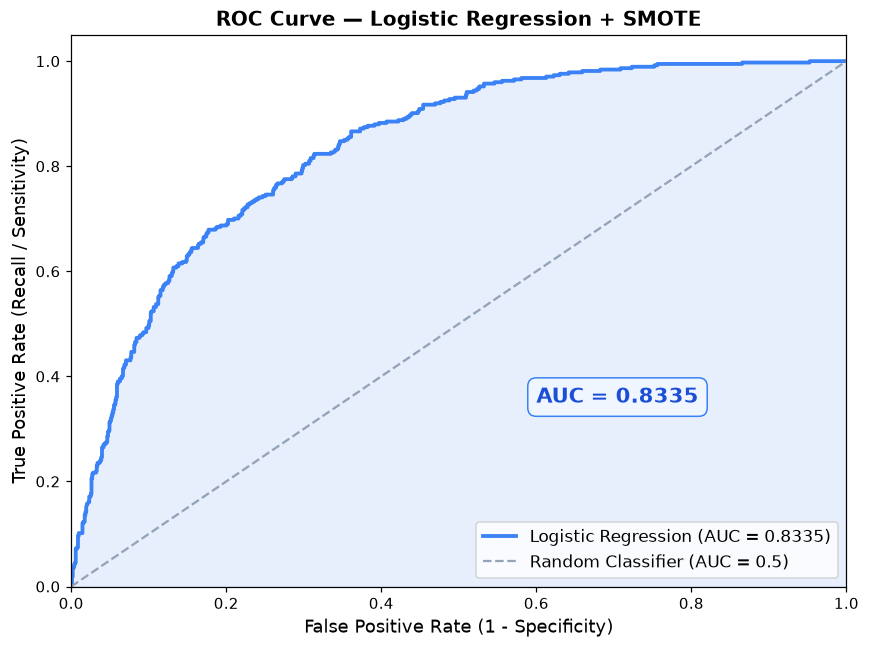
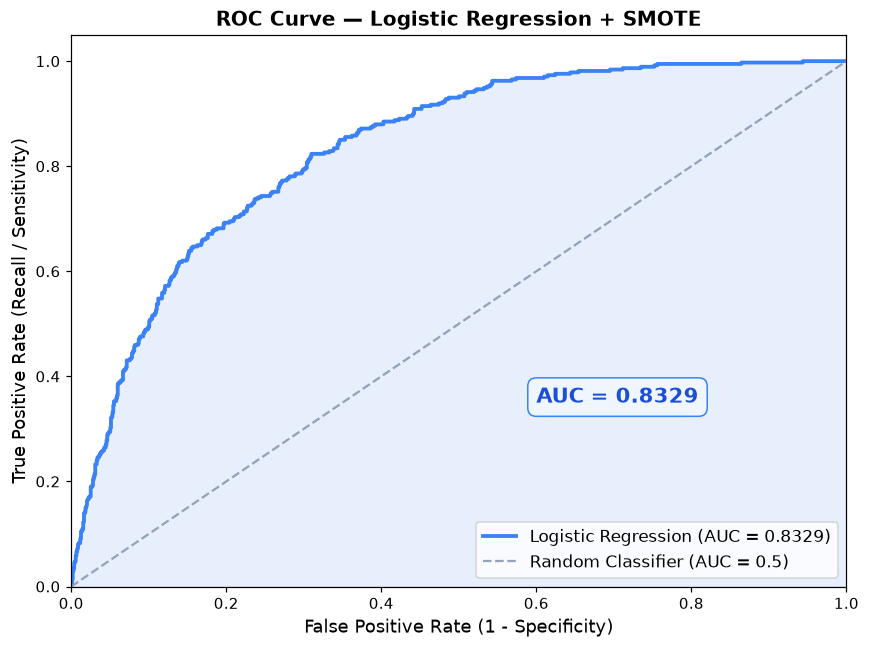
fix: synchronize metrics to C=10 tuning, add risk threshold documentation, and add UTF-8 stdout fixes

diff --git a/templates/index.html b/templates/index.html
@@ -359,6 +359,11 @@
         <strong>🚨 Rekomendasi:</strong> Risiko churn SANGAT TINGGI. Segera lakukan intervensi — tawarkan paket khusus, perpanjang kontrak dengan insentif, atau eskalasi ke tim retensi.
       {% endif %}
     </div>
+
+    <!-- Catatan Ambang Batas Risiko Manajerial -->
+    <div style="margin-top: .9rem; font-size: .76rem; color: var(--text-muted); text-align: center; line-height: 1.45;">
+      ℹ <em>Kategori risiko (&lt;40% Rendah, 40–70% Sedang, &ge;70% Tinggi) adalah aturan segmentasi manajerial/bisnis untuk strategi retensi proaktif, sedangkan ambang batas standar model klasifikasi biner adalah 50%.</em>
+    </div>
   </div>
 </div>
 {% endif %}

diff --git a/app.py b/app.py
@@ -17,13 +17,14 @@ MODEL_PATH = os.path.join(BASE_DIR, "models", "model_churn.pkl")
 app   = Flask(__name__)
 model = joblib.load(MODEL_PATH)
 
-# Statistik model untuk ditampilkan di UI
+# Statistik model final (hasil tuning C=10 dengan Stratified 5-Fold CV)
 MODEL_STATS = {
-    "accuracy" : 73.13,
-    "recall"   : 77.54,
-    "auc"      : 83.34,
-    "f1"       : 60.54,
-    "algorithm": "Logistic Regression + SMOTE",
+    "accuracy" : 73.28,
+    "recall"   : 78.07,
+    "auc"      : 83.29,
+    "f1"       : 60.83,
+    "cv_auc"   : 84.55,
+    "algorithm": "Logistic Regression (C=10) + SMOTE",
     "dataset"  : "Telco Customer Churn (7,032 records)",
 }
 
@@ -33,10 +34,10 @@ MODEL_STATS = {
 
 @app.route("/", methods=["GET", "POST"])
 def index():
-    hasil       = None
+    hasil        = None
     probabilitas = None
-    risk_level  = None
-    form_data   = {}
+    risk_level   = None
+    form_data    = {}
 
     if request.method == "POST":
         form_data = request.form.to_dict()
@@ -64,9 +65,17 @@ def index():
         }
 
         X_input      = pd.DataFrame([data])
-        prediksi     = model.predict(X_input)[0]
         probabilitas = round(model.predict_proba(X_input)[0][1] * 100, 2)
 
+        # ── Aturan Segmentasi Risiko Bisnis ─────────────────────────
+        # Catatan: Standar decision boundary biner Logistic Regression
+        # adalah 50% (probabilitas >= 50% -> churn).
+        # Namun untuk strategi mitigasi retensi pelanggan proaktif,
+        # aplikasi membagi probabilitas menjadi 3 tier risiko bisnis:
+        #   - < 40%      : Risiko Rendah  (pelanggan relatif loyal)
+        #   - 40% - 70%  : Risiko Sedang  (perlu perhatian & diskon/upgrade)
+        #   - >= 70%     : Risiko Tinggi  (intervensi retensi agresif segera)
+        # ────────────────────────────────────────────────────────────
         if probabilitas >= 70:
             risk_level = "high"
             hasil      = "Berisiko Tinggi Churn"

diff --git a/src/04_simpan_model.py b/src/04_simpan_model.py
@@ -11,15 +11,20 @@ Script ini melakukan:
 =============================================================
 """
 
+import sys
 import os
 import warnings
 import pandas as pd
 import joblib
 
+if hasattr(sys.stdout, "reconfigure"):
+    sys.stdout.reconfigure(encoding="utf-8", errors="replace")
+
 from sklearn.model_selection import train_test_split
 from sklearn.compose import ColumnTransformer
 from sklearn.preprocessing import OneHotEncoder, StandardScaler
 from sklearn.linear_model import LogisticRegression
+from sklearn.metrics import accuracy_score, recall_score, f1_score, roc_auc_score
 from imblearn.pipeline import Pipeline
 from imblearn.over_sampling import SMOTE
 
@@ -68,15 +73,27 @@ preprocessor = ColumnTransformer([
     ("cat", OneHotEncoder(handle_unknown="ignore"), categorical_features)
 ])
 
+# Model menggunakan parameter optimal C=10 hasil tuning GridSearchCV (05_validasi_model.py)
 model = Pipeline([
     ("preprocessor", preprocessor),
     ("smote",        SMOTE(random_state=42)),
-    ("classifier",   LogisticRegression(max_iter=2000, random_state=42))
+    ("classifier",   LogisticRegression(C=10, max_iter=2000, random_state=42))
 ])
 
-print("\n▸ Melatih model final ...")
+print("\n▸ Melatih model final (C=10, SMOTE) ...")
 model.fit(X_train, y_train)
 print("✔  Pelatihan selesai!")
+
+# Evaluasi pada data uji untuk memastikan konsistensi
+y_pred = model.predict(X_test)
+y_prob = model.predict_proba(X_test)[:, 1]
+print("\n" + "=" * 55)
+print("  EVALUASI MODEL PADA DATA UJI (C=10)")
+print("=" * 55)
+print(f"  Akurasi  : {accuracy_score(y_test, y_pred) * 100:.2f}%")
+print(f"  Recall   : {recall_score(y_test, y_pred) * 100:.2f}%")
+print(f"  F1-Score : {f1_score(y_test, y_pred) * 100:.2f}%")
+print(f"  ROC-AUC  : {roc_auc_score(y_test, y_prob) * 100:.2f}%")
 
 # ══════════════════════════════════════════════════════════
 #  4. SIMPAN MODEL DAN METADATA

diff --git a/src/03_pelatihan_model.py b/src/03_pelatihan_model.py
@@ -12,12 +12,16 @@ Script ini melakukan:
 =============================================================
 """
 
+import sys
 import os
 import warnings
 import pandas as pd
 import numpy as np
 import matplotlib.pyplot as plt
 import seaborn as sns
+
+if hasattr(sys.stdout, "reconfigure"):
+    sys.stdout.reconfigure(encoding="utf-8", errors="replace")
 
 from sklearn.model_selection import train_test_split
 from sklearn.compose import ColumnTransformer
@@ -80,7 +84,7 @@ preprocessor = ColumnTransformer([
 model = Pipeline([
     ("preprocessor", preprocessor),
     ("smote",        SMOTE(random_state=42)),
-    ("classifier",   LogisticRegression(max_iter=2000, random_state=42))
+    ("classifier",   LogisticRegression(C=10, max_iter=2000, random_state=42))
 ])
 
 print("\n▸ Melatih model (LogisticRegression + SMOTE) ...")

diff --git a/src/02_preprocessing.py b/src/02_preprocessing.py
@@ -11,10 +11,15 @@ Script ini melakukan:
 =============================================================
 """
 
+import sys
 import os
 import warnings
 import pandas as pd
 import matplotlib.pyplot as plt
+
+if hasattr(sys.stdout, "reconfigure"):
+    sys.stdout.reconfigure(encoding="utf-8", errors="replace")
+
 from sklearn.model_selection import train_test_split
 from sklearn.compose import ColumnTransformer
 from sklearn.preprocessing import OneHotEncoder, StandardScaler

diff --git a/src/05_validasi_model.py b/src/05_validasi_model.py
@@ -12,11 +12,15 @@ Script ini melakukan:
 =============================================================
 """
 
+import sys
 import os
 import warnings
 import pandas as pd
 import matplotlib.pyplot as plt
 import joblib
+
+if hasattr(sys.stdout, "reconfigure"):
+    sys.stdout.reconfigure(encoding="utf-8", errors="replace")
 
 from sklearn.model_selection import (
     train_test_split, GridSearchCV, StratifiedKFold

diff --git a/src/01_eksplorasi_data.py b/src/01_eksplorasi_data.py
@@ -11,12 +11,16 @@ Script ini melakukan:
 =============================================================
 """
 
+import sys
 import os
 import warnings
 import pandas as pd
 import matplotlib.pyplot as plt
 import matplotlib.patches as mpatches
 import seaborn as sns
+
+if hasattr(sys.stdout, "reconfigure"):
+    sys.stdout.reconfigure(encoding="utf-8", errors="replace")
 
 warnings.filterwarnings("ignore")
 

diff --git a/README.md b/README.md
@@ -31,19 +31,34 @@ Proyek ini membangun sistem prediksi churn pelanggan telekomunikasi berbasis kla
 
 ## 🤖 Model & Hasil Evaluasi
 
-Model dibangun menggunakan pipeline terintegrasi: **One-Hot Encoding** + **StandardScaler** + penanganan class imbalance dengan **SMOTE** + **Logistic Regression**.
+Model dibangun menggunakan pipeline terintegrasi: **One-Hot Encoding** + **StandardScaler** + penanganan class imbalance dengan **SMOTE** + **Logistic Regression (C=10)**.
 
 | Metrik Evaluasi | Nilai (Data Uji) | Keterangan |
 |-----------------|------------------|------------|
-| **Akurasi Data Uji** | **73.21%** | Performa klasifikasi keseluruhan |
-| **Recall (Churn)** | **77.81%** | ⭐ **Metrik paling kritis** (minimalkan False Negative) |
-| **Precision (Churn)**| **49.74%** | Proporsi prediksi churn yang tepat |
-| **F1-Score (Churn)** | **60.69%** | Keseimbangan precision & recall |
-| **ROC-AUC** | **83.35%** | Kemampuan diskriminasi model sangat baik (> 0.8) |
+| **Akurasi Data Uji** | **73.28%** | Performa klasifikasi keseluruhan pada data uji (1.407 sampel) |
+| **Recall (Churn)** | **78.07%** | ⭐ **Metrik paling kritis** (berhasil mendeteksi 292 dari 374 pelanggan churn) |
+| **Precision (Churn)**| **49.83%** | Proporsi prediksi churn yang tepat |
+| **F1-Score (Churn)** | **60.83%** | Harmonic mean precision & recall |
+| **ROC-AUC** | **83.29%** | Kemampuan diskriminasi model sangat baik (> 0.8) |
 | **Validation AUC (5-Fold)** | **84.55%** | Skor rata-rata Stratified K-Fold CV (C optimal = 10) |
 
 > 💡 **Alasan Prioritas Recall:**  
-> Pada domain retensi pelanggan, **False Negative (FN)** — pelanggan yang sebenarnya akan churn namun diprediksi aman — jauh lebih merugikan secara finansial dibanding **False Positive (FP)** (mengeluarkan biaya retensi/promo untuk pelanggan yang sebenarnya loyal).
+> Pada domain retensi pelanggan telekomunikasi, **False Negative (FN)** — pelanggan yang sebenarnya akan berhenti berlangganan tetapi terlewat dan diprediksi aman — merupakan kerugian terbesar karena perusahaan kehilangan pendapatan jangka panjang (*loss of customer lifetime value*). Sebaliknya, **False Positive (FP)** hanya menimbulkan biaya retensi kecil (misal: pemberian voucher diskon kepada pelanggan yang sebenarnya loyal).
+
+---
+
+### ⚖ Aturan Segmentasi Risiko Bisnis vs Ambang Batas Klasifikasi Biner
+
+Penting untuk dicatat bahwa model **Logistic Regression** secara standar matematis menggunakan ambang batas klasifikasi biner **50% (0.5)**:
+- Probabilitas $\ge 50\%$ diklasifikasikan sebagai **Churn (1)**.
+- Probabilitas $< 50\%$ diklasifikasikan sebagai **Tidak Churn (0)**.
+
+Namun, untuk kebutuhan operasional manajemen bisnis di dunia nyata, aplikasi ini menerapkan **aturan segmentasi risiko manajerial (*business decision threshold*)**:
+1. **Risiko Rendah ($< 40\%$)**: Pelanggan aman dan loyal. Diberikan program apresiasi standar.
+2. **Risiko Sedang ($40\% - 70\%$)**: Pelanggan mulai menunjukkan tanda ketidakpuasan layanan. Meskipun probabilitasnya belum tentu melampaui 50%, tindakan pencegahan proaktif (seperti customer care check-in atau opsi paket fleksibel) perlu dimulai lebih awal.
+3. **Risiko Tinggi ($\ge 70\%$)**: Pelanggan hampir pasti akan berhenti berlangganan dalam waktu dekat. Memerlukan intervensi agresif dari tim retensi khusus.
+
+*Pengelompokan 40% dan 70% ini merupakan aturan bisnis aplikasi untuk strategi preventif, bukan batas yang otomatis diputuskan oleh algoritma Logistic Regression.*
 
 ---
 
@@ -135,6 +150,15 @@ python app.py
 ### 5. Akses melalui browser
 - Form Prediksi: [http://127.0.0.1:5000/](http://127.0.0.1:5000/)
 - Dashboard Visualisasi EDA: [http://127.0.0.1:5000/eda](http://127.0.0.1:5000/eda)
+
+### 📦 Tips Pembuatan Arsip ZIP untuk Pengumpulan Tugas
+Jika mengumpulkan proyek dalam bentuk file ZIP ke dosen atau platform e-learning:
+- **Jangan menyertakan folder `.venv/`** karena berukuran ratusan MB dan berisi library lokal yang spesifik untuk mesin Anda.
+- Gunakan perintah `git archive` di terminal agar ZIP yang dihasilkan bersih dan hanya berisi file kode proyek:
+  ```powershell
+  git archive -o TA-03_Customer_Churn.zip HEAD
+  ```
+  *(Perintah ini menghasilkan file zip ringan hanya sekitar ~1–2 MB tanpa folder `.venv`)*
 
 ---
 
